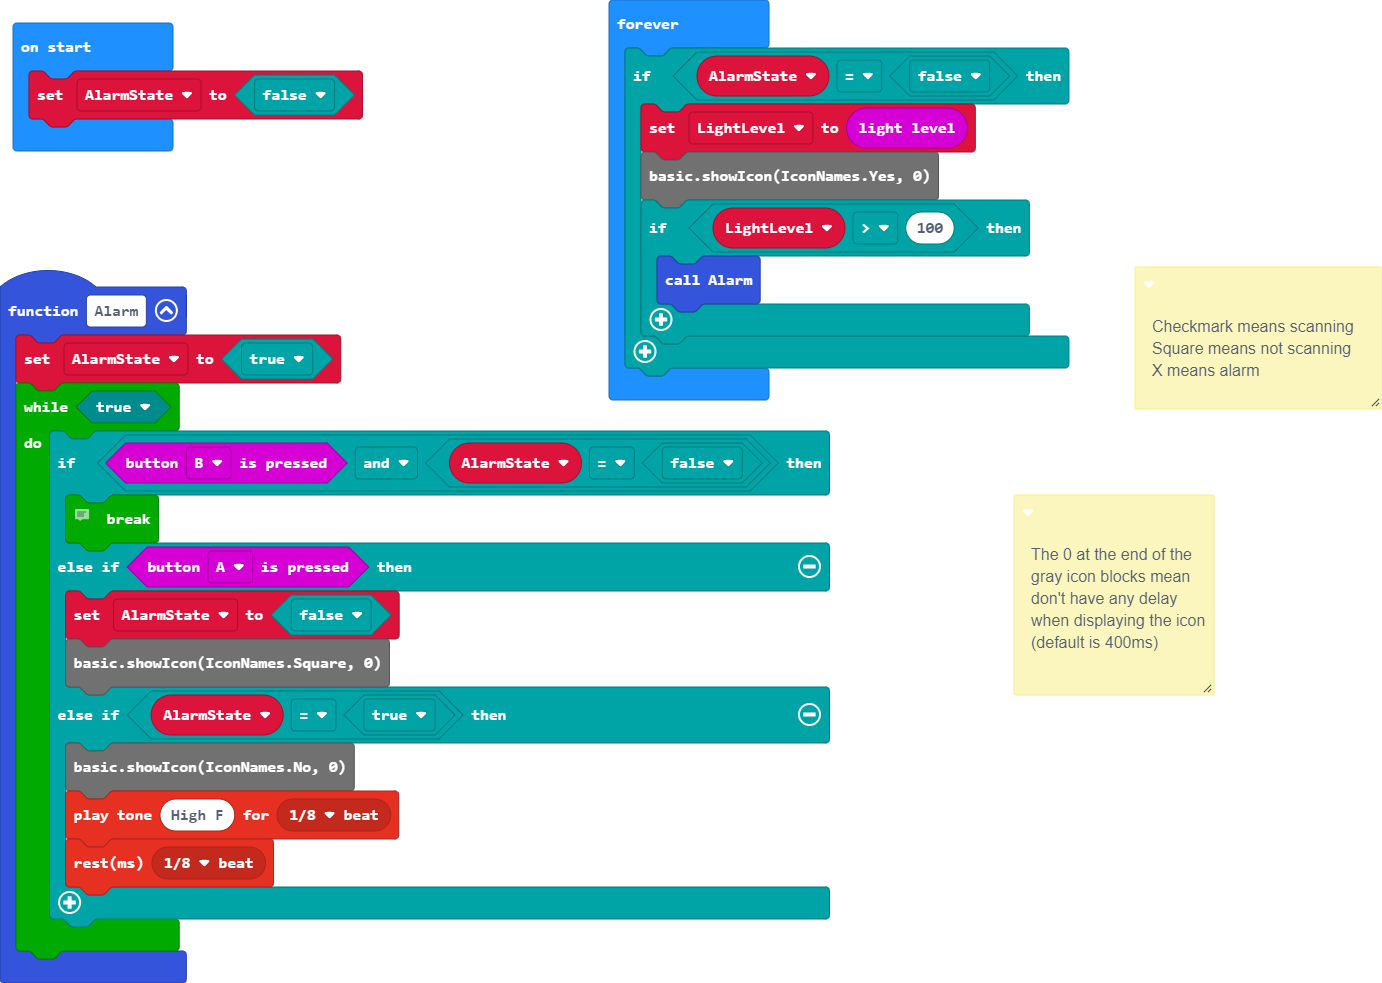
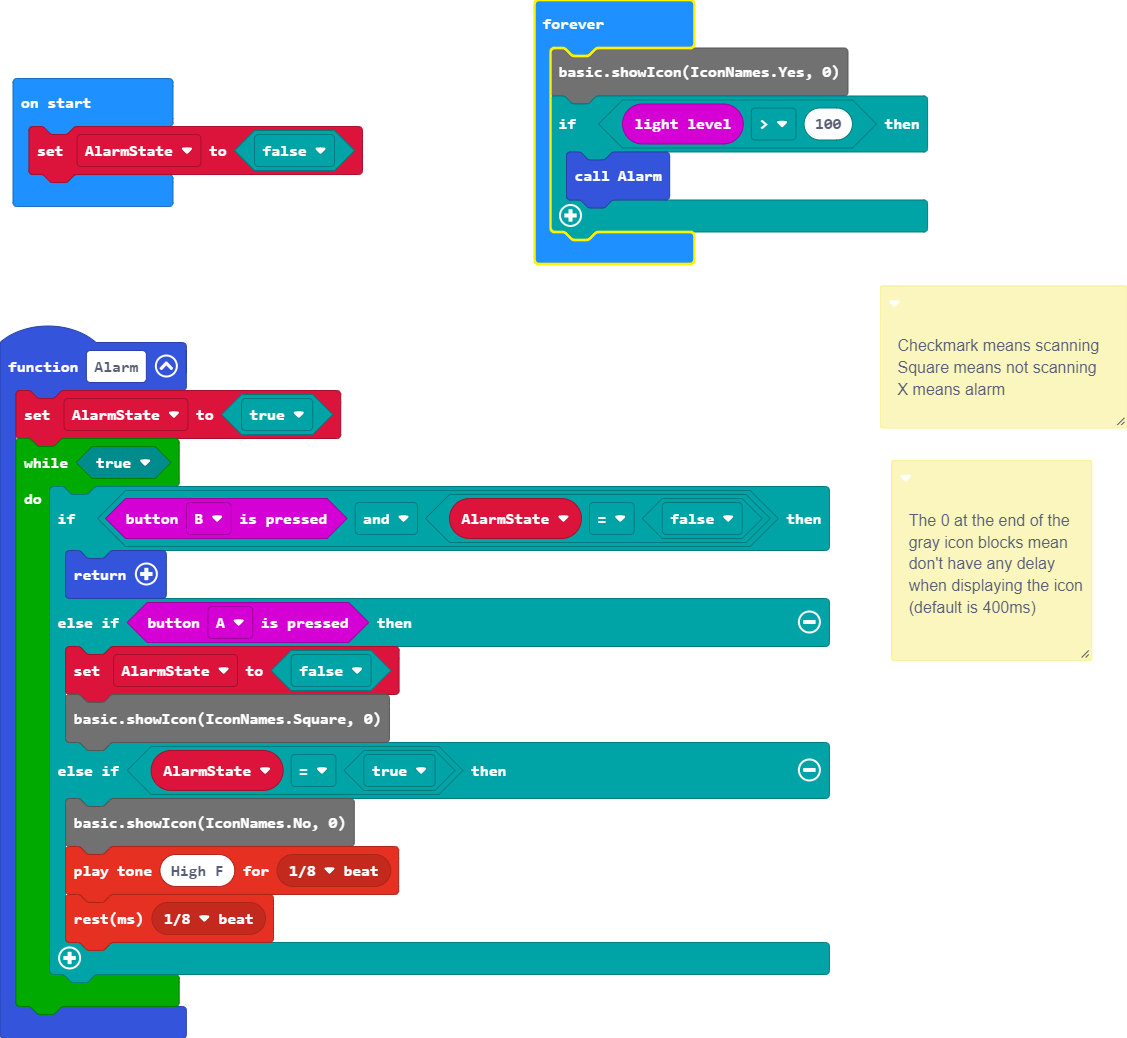
Changed break to return, removed unneccecary variable LightLevel, and removed a pointless if statement

diff --git a/main.ts b/main.ts
@@ -1,12 +1,18 @@
 /**
+ * Checkmark means scanning
+ * 
+ * Square means not scanning
+ * 
+ * X means alarm
+ */
+/**
  * The 0 at the end of the gray icon blocks mean don't have any delay when displaying the icon (default is 400ms)
  */
 function Alarm () {
     AlarmState = true
     while (true) {
         if (input.buttonIsPressed(Button.B) && AlarmState == false) {
-            // Go back to searching
-            break;
+            return
         } else if (input.buttonIsPressed(Button.A)) {
             AlarmState = false
             basic.showIcon(IconNames.Square, 0)
@@ -17,22 +23,11 @@ music.playTone(698, music.beat(BeatFraction.Eighth))
         }
     }
 }
-let LightLevel = 0
 let AlarmState = false
 AlarmState = false
-/**
- * Checkmark means scanning
- * 
- * Square means not scanning
- * 
- * X means alarm
- */
 basic.forever(function () {
-    if (AlarmState == false) {
-        LightLevel = input.lightLevel()
-        basic.showIcon(IconNames.Yes, 0)
-if (LightLevel > 100) {
-            Alarm()
-        }
+    basic.showIcon(IconNames.Yes, 0)
+if (input.lightLevel() > 100) {
+        Alarm()
     }
 })
